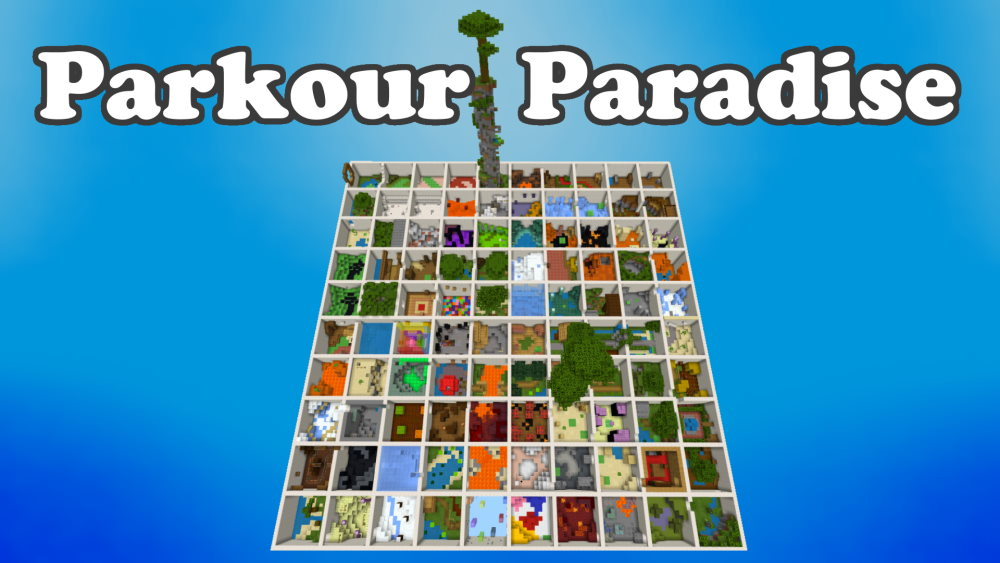
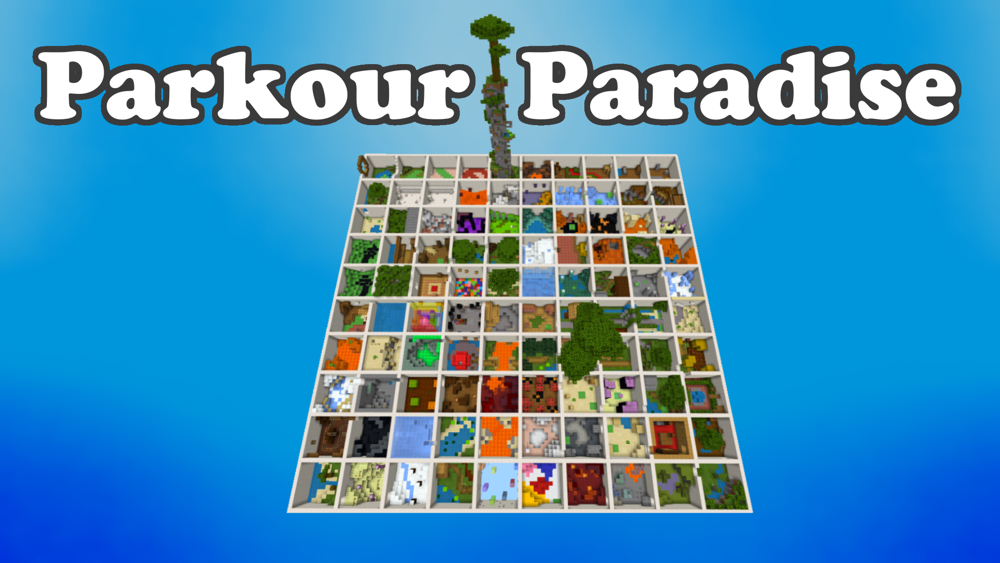
Added Parkour Paradise 3 page
- Changed map order to not be related to the date.
- Changed map version of some maps to indicate v2

Changed region(s): [[0.248, 0.0, 0.775, 0.9964], [0.186, 0.1812, 0.217, 0.2114]]

diff --git a/index.html b/index.html
@@ -10,7 +10,7 @@ background: '/img/bg-index.jpg'
 
 <div class="container-fluid">
   <div class="card-deck" style="justify-content: center;">
-    {% assign sorted = site.maps | sort: 'date' | reverse %}
+    {% assign sorted = site.maps | sort: 'order' %}
     {% for map in sorted %}
     {% if map.bedrock %}
     {% unless map.hide %}
@@ -21,7 +21,6 @@ background: '/img/bg-index.jpg'
         {% if map.bedrock %}<span class="badge badge-secondary">Bedrock</span>{% endif %}
         {% if map.java %}<span class="badge badge-secondary">Java {{map.java-version}}</span>{% endif %} 
         <p class="card-text">{{map.short-description}}</p>
-        <p class="post-meta"> {% if map.version %}v{{map.version}} - {% endif %}{{ map.date | date: '%B %d, %Y' }}</p>
       </div>
     </div>
     {% endunless %}

diff --git a/maps/index.html b/maps/index.html
@@ -5,7 +5,7 @@ background: '/img/bg-map.jpg'
 ---
 <div class="container-fluid">
 <div class="card-deck" style="justify-content: center;">
-{% assign sorted = site.maps | sort: 'date' | reverse %}
+{% assign sorted = site.maps | sort: 'order' %}
 {% for map in sorted %}
 {% unless map.hide %}
 <div class="card mapcard" onclick="location.href='{{ map.url | prepend: site.baseurl | replace: '//', '/' }}';">
@@ -16,7 +16,6 @@ background: '/img/bg-map.jpg'
     {% if map.java %}<span class="badge badge-secondary">Java {{map.java-version}}</span>{% endif %} 
 
     <p class="card-text">{{map.short-description}}</p>
-    <p class="post-meta">  {% if map.version %}v{{map.version}} - {% endif %}{{ map.date | date: '%B %d, %Y' }}</p>
   </div>
 </div>
 {% endunless %}

diff --git a/_layouts/map.html b/_layouts/map.html
@@ -15,6 +15,8 @@ layout: default
             {% if page.bedrock %}<span class="badge badge-light">Bedrock</span>{% endif %}
             {% if page.java %}<span class="badge badge-light">Java {{page.java-version}}</span>{% endif %}
           </span>
+          <span class="meta">v{{ page.version}}
+          </span>
         </div>
       </div>
     </div>

diff --git a/_maps/parkour-paradise-3.md b/_maps/parkour-paradise-3.md
@@ -1,0 +1,29 @@
+---
+layout: map
+title: "Parkour Paradise 3"
+date: 2021-06-10
+order: 5
+hide: true
+short-description: "Parkour Paradise 3 offers 100 new and exciting levels for you to enjoy!"
+java: "/downloads/Parkour Paradise 3.zip"
+java-version: "1.17"
+trailer: "https://www.youtube.com/watch?v=dRN7gbcMyu0"
+speedrunnable: true
+isranked: true
+srank: 3900
+arank: 6600
+brank: 9000 
+crank: 14400
+inserver: false
+version: 2.0
+---
+
+Parkour Paradise 3 is a MASSIVE parkour map containing 100 fun and exciting levels to beat! Play alone or with friends!
+
+- 100 levels
+- Rising lava levels
+- Snake levels
+- Many unique level themes!
+- Multiplayer friendly!
+- Ranking system!
+- Nearly double the size of Parkour Paradise 2!

diff --git a/_maps/parkour-spiral-2.md b/_maps/parkour-spiral-2.md
@@ -2,6 +2,7 @@
 layout: map
 title: "Parkour Spiral 2"
 date: 2020-11-24
+order: 2
 short-description: "Parkour Spiral 2 offers a new fun parkour adventure! Start in the Nether and climb to the top!"
 java: "/downloads/Parkour Spiral 2.zip"
 java-version: "1.16.5"
@@ -16,7 +17,7 @@ crank: 4800
 inserver: true
 trial: "https://trial.stickypiston.co/map/parkourspiral2"
 server: "https://stickypiston.co/hielkemaps/parkourspiral2"
-version: 1.1
+version: 2.1
 ---
 
 In Parkour Spiral 2 your goal is to climb the Spiral from the Nether to the top!

diff --git a/_maps/parkour-pyramid.md b/_maps/parkour-pyramid.md
@@ -2,6 +2,7 @@
 layout: map
 title: "Parkour Pyramid"
 date: 2020-08-25
+order: 7
 short-description: "Parkour Pyramid is one GIANT pyramid full of parkour!"
 java: "/downloads/Parkour Pyramid.zip"
 java-version: "1.16.5"
@@ -16,7 +17,7 @@ crank: 16200
 inserver: true
 trial: "https://trial.stickypiston.co/map/parkourpyramid"
 server: "https://stickypiston.co/hielkemaps/parkourpyramid"
-version: 1.1
+version: 2.1
 ---
 
 Parkour Pyramid is an epic parkour adventure that will keep you entertained for hours!

diff --git a/_maps/arrow-fight.md b/_maps/arrow-fight.md
@@ -2,6 +2,7 @@
 layout: map
 title: "Arrow Fight"
 date: 2020-01-07
+order: 7
 short-description: "Arrow Fight is a PvP minigame with custom unique arrows with special abilities that you use to shoot at the enemy team to win!"
 java: "/downloads/Arrow Fight.zip"
 java-rp: "/downloads/Arrow Fight Resource Pack.zip"

diff --git a/_maps/parkour-paradise.md b/_maps/parkour-paradise.md
@@ -2,6 +2,7 @@
 layout: map
 title: "Parkour Paradise"
 date: 2020-02-10
+order: 3
 short-description: "Parkour Paradise is a parkour map which contains 100 little levels, and your goal is to beat them all!"
 java: "/downloads/Parkour Paradise.zip"
 java-version: "1.16.5"

diff --git a/_maps/dimension-parkour.md b/_maps/dimension-parkour.md
@@ -2,6 +2,7 @@
 layout: map
 title: "Dimension Parkour"
 date: 2020-01-29
+order: 6
 short-description: "Dimension Parkour takes you on an amazing parkour journey through all three Minecraft dimensions."
 java: "/downloads/Dimension Parkour.zip"
 java-version: "1.16.5"

diff --git a/_maps/parkour-spiral.md b/_maps/parkour-spiral.md
@@ -2,6 +2,7 @@
 layout: map
 title: "Parkour Spiral"
 date: 2020-03-17
+order: 1
 short-description: "Parkour Spiral is a MASSIVE parkour map where you start at the bottom and must parkour to the top!"
 java: "/downloads/Parkour Spiral.zip"
 java-version: "1.16.5"

diff --git a/_maps/parkour-paradise-2.md b/_maps/parkour-paradise-2.md
@@ -2,6 +2,7 @@
 layout: map
 title: "Parkour Paradise 2"
 date: 2020-06-02
+order: 4
 short-description: "Parkour Paradise 2 offers 100 new and exciting levels for you to enjoy!"
 java: "/downloads/Parkour Paradise 2.zip"
 java-version: "1.16.5"
